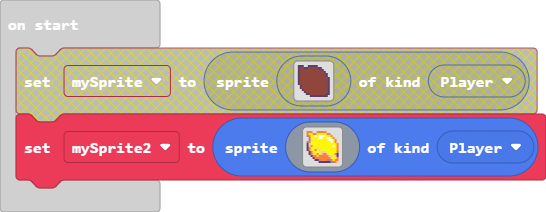
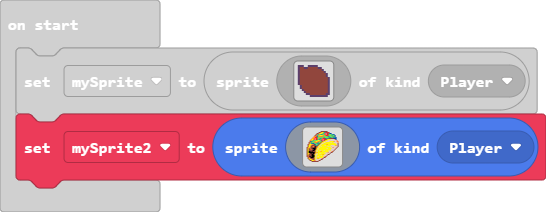
Update main.blocks, main.ts

Changed region(s): [[0.0, 0.1981, 0.9963, 0.5943], [0.7784, 0.6226, 0.9963, 0.7642], [0.5604, 0.5943, 0.6227, 0.7925]]

diff --git a/main.ts b/main.ts
@@ -16,3 +16,37 @@ let mySprite2 = sprites.create(img`
     . . . . c c b 4 4 4 b b 4 5 4 4 
     . . . . . . c c c c c c b b 4 . 
     `, SpriteKind.Player)
+let mySprite2 = sprites.create(img`
+    ..............eeeeeee...........
+    ............ee455662e2e.........
+    ..........ee45556723e2688.......
+    .........e46776677232e777668....
+    ........e46745554772227776778...
+    .......4448744444777766777678...
+    ......4522e7777776777766676668..
+    .....4523227766722e666eeeee888..
+    ....455232e76672322e4555dddd48..
+    ...44567777554623e455ddddddddd4.
+    ...e66774554477e455dddd55554dd44
+    ..e46777444677e55dd55555d55dddd4
+    ..e5668677666e5dd555555555555dde
+    .e45544e8776e5d555554555555555de
+    .e554eeee66e5d5555d55555dddd54de
+    .e55ee44fee5d5d555555d5d5dddddde
+    e454eeeefe45d55555555555dd4ddde.
+    e5e4eefffe5d55555555d5555dddde..
+    e5ee4eeff45d555555555555dddde...
+    e5eeeeffe5d55d555d5555d5ddde....
+    e5ffefeee5d55545555555ddd4e.....
+    e5ffffffe545555555d5d4ddee......
+    e54efeff45d55d55555dddde........
+    e5eeeffe5dd5555545dddee.........
+    e4eeefff5d5555d55ddde...........
+    e4efefff5d5d55555d4e............
+    .e4efffe5d555555dee.............
+    .e54eeee5d545dd4e...............
+    ..e554ee5dddddee................
+    ...ee5544dddee..................
+    .....eeeeeee....................
+    ................................
+    `, SpriteKind.Player)
